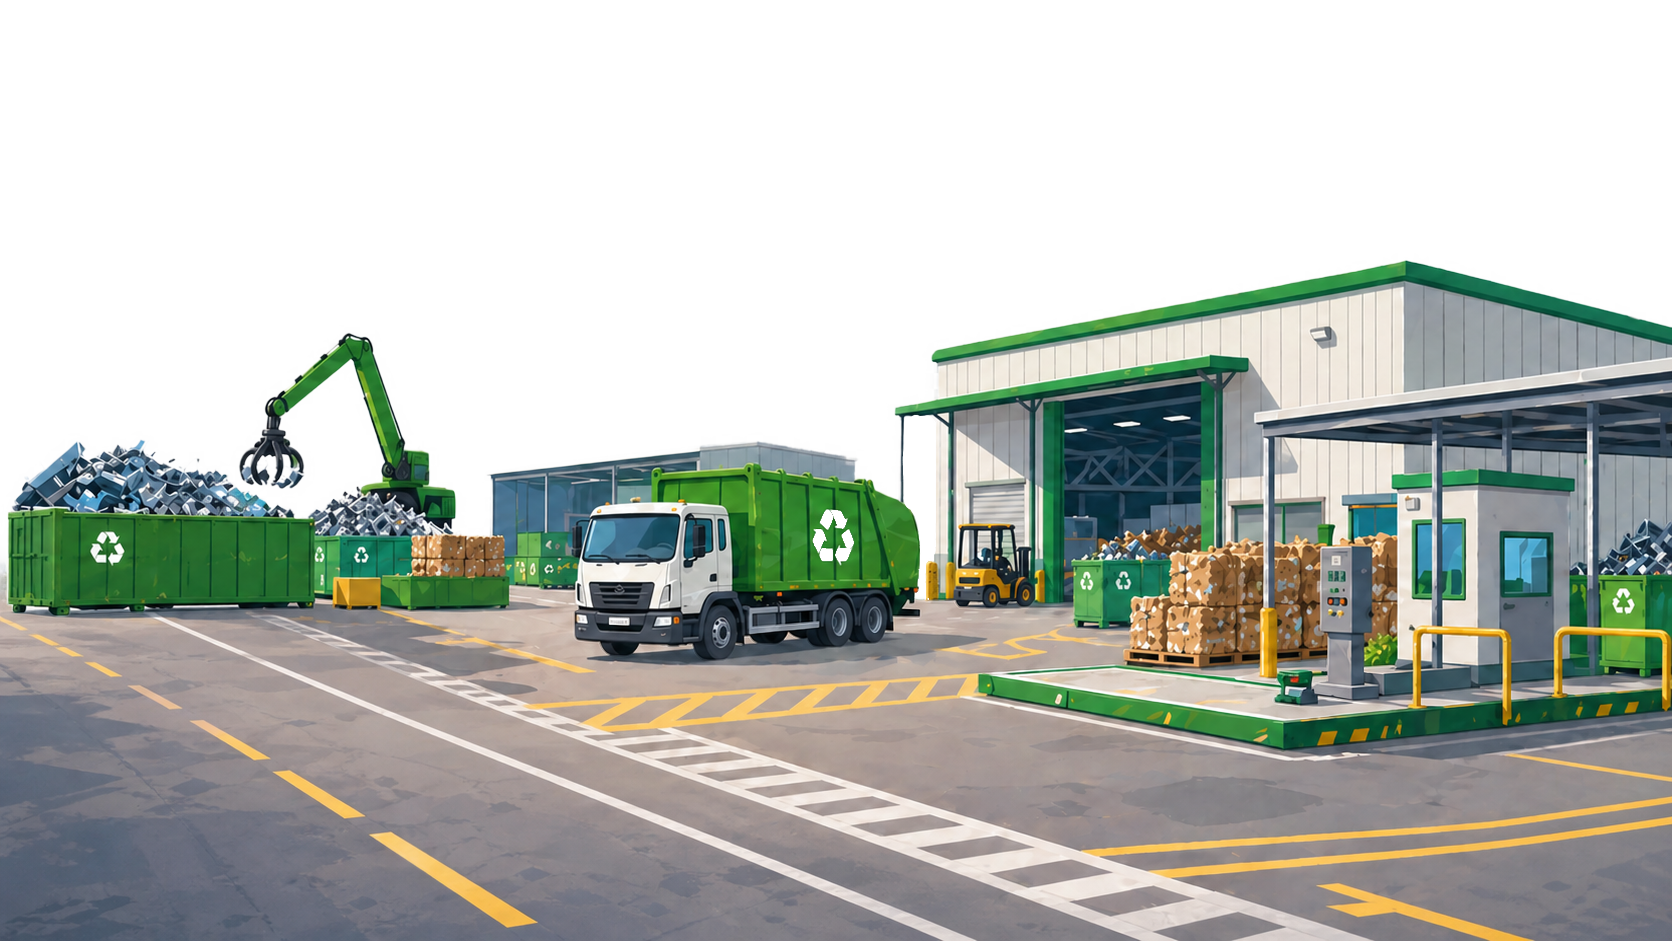
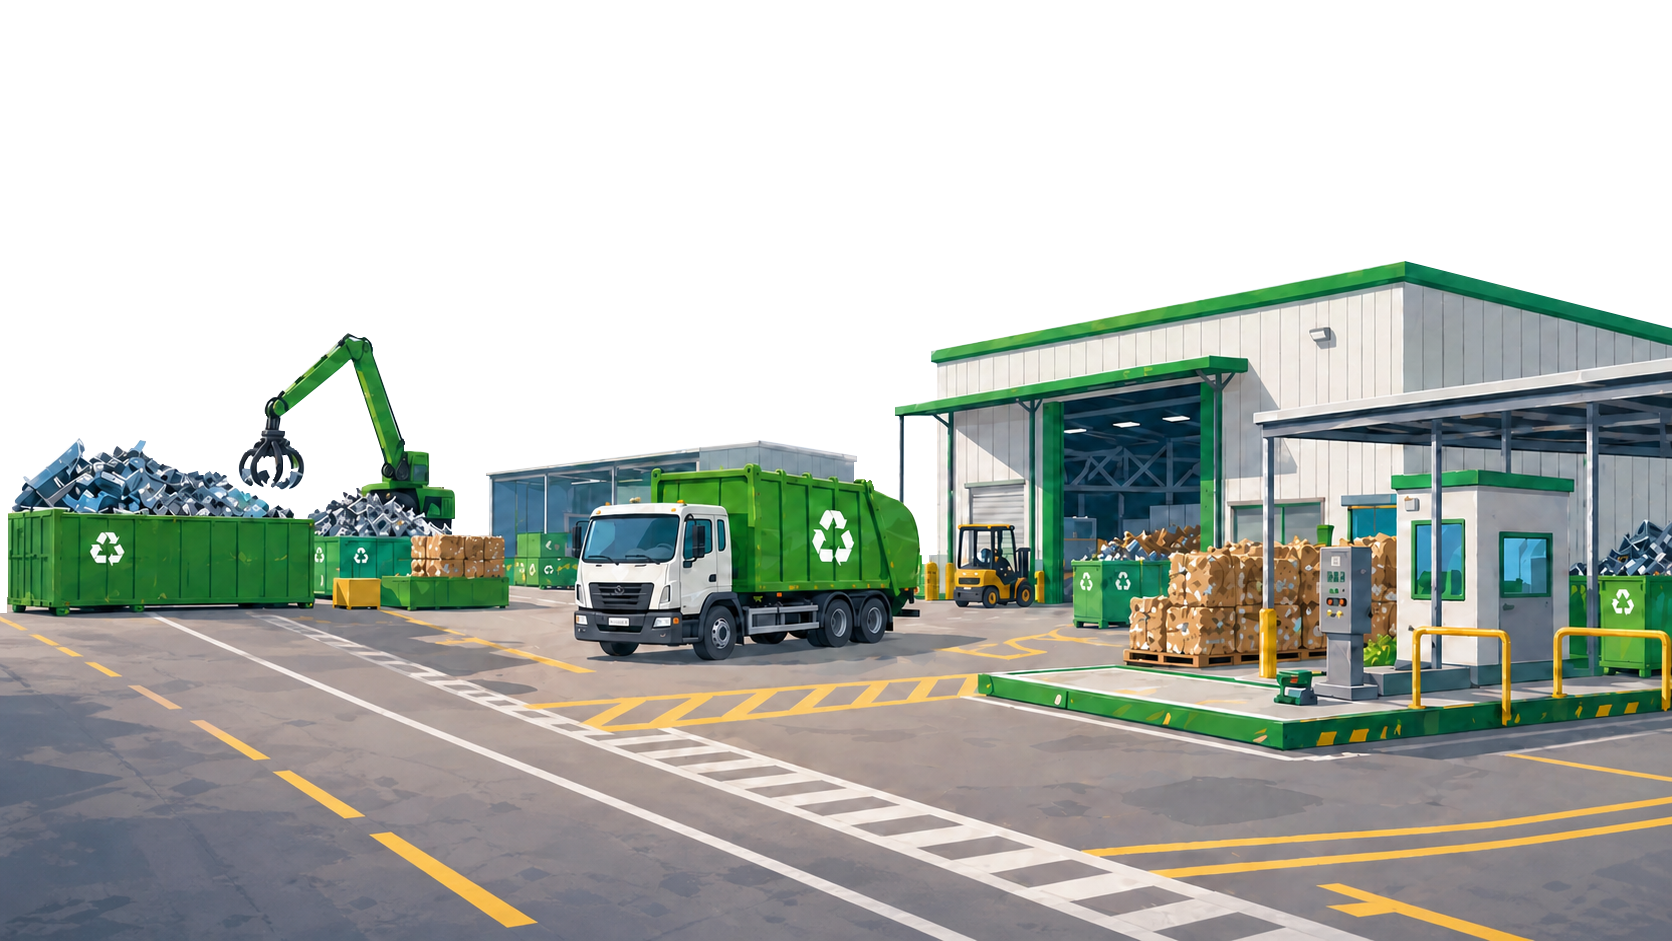
avance con conexion con backend

diff --git a/src/app/services/api.ts b/src/app/services/api.ts
@@ -1,0 +1,31 @@
+import { Injectable, inject } from '@angular/core';
+import { HttpClient, HttpHeaders } from '@angular/common/http';
+
+import { environment } from '../../environments/environment';
+import { UtilsService } from './utils';
+
+@Injectable({
+  providedIn: 'root',
+})
+export class ApiService {
+  private readonly apiUrl = environment.urlBase;
+
+  private readonly http = inject(HttpClient);
+  private readonly utilsSvc = inject(UtilsService);
+
+  constructor() {
+    console.log('URL BASE API:', this.apiUrl);
+  }
+
+  createUser() {}
+
+  loginUser() {}
+
+  getUser() {}
+
+  updateUser() {}
+
+  deleteUser() {}
+
+  signOut() {}
+}

diff --git a/src/app/services/api.spec.ts b/src/app/services/api.spec.ts
@@ -1,0 +1,16 @@
+import { TestBed } from '@angular/core/testing';
+
+import { Api } from './api';
+
+describe('Api', () => {
+  let service: Api;
+
+  beforeEach(() => {
+    TestBed.configureTestingModule({});
+    service = TestBed.inject(Api);
+  });
+
+  it('should be created', () => {
+    expect(service).toBeTruthy();
+  });
+});

diff --git a/src/environments/environment.ts b/src/environments/environment.ts
@@ -1,0 +1,4 @@
+export const environment = {
+    production: false,
+    urlBase: 'http://localhost:3000/api',
+}

diff --git a/src/environments/enviroment.prod.ts b/src/environments/enviroment.prod.ts
@@ -1,0 +1,3 @@
+export const environment = {
+    production: true,
+}